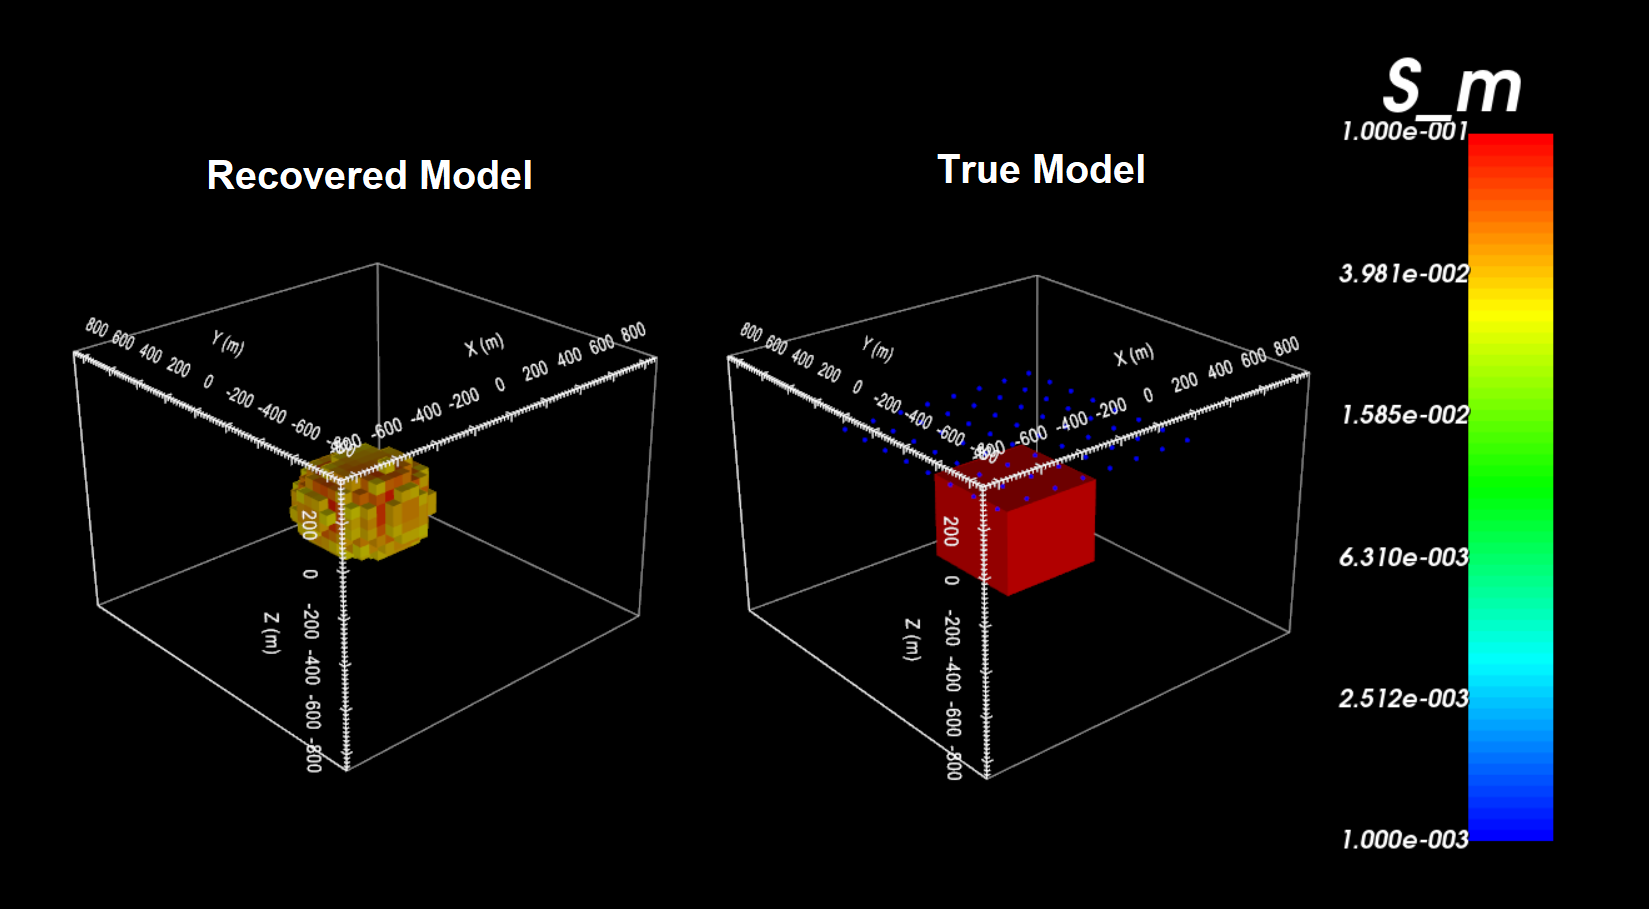
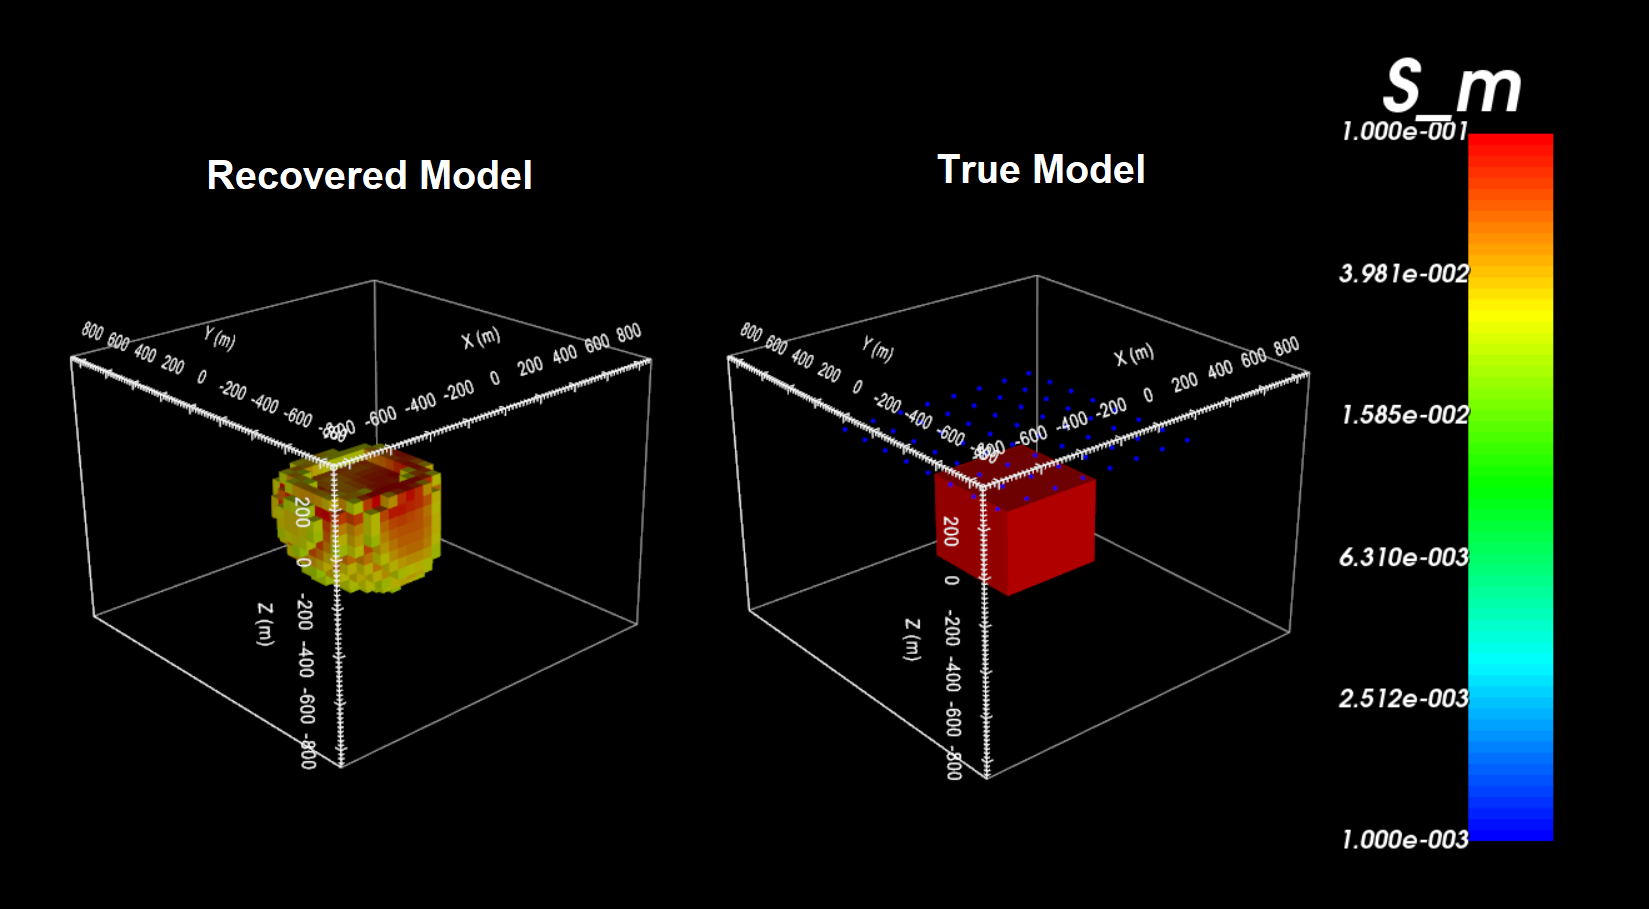
update examples

diff --git a/content/example_dbdt/create_model.rst b/content/example_dbdt/create_model.rst
@@ -5,7 +5,7 @@ Create Model
 
 Here, the code **blk3cell.exe** and the input file **blk3cell.inp** (:ref:`see format <h3dtd_input_model>`) are used to create a conductivity model on the tensor mesh provided. Files relevant to this part of the example are in the sub-folder *tensor_model*. Before running this example, you may want to do the following:
 
-	- `Download and open the zip folder containing the entire H3DTD example <https://github.com/ubcgif/h3dtd/raw/h3dtd_v2/assets/h3dtd_example_dbzdt.zip>`__ (if not done already)
+	- `Download and open the zip folder containing the entire H3DTD v2 example <https://github.com/ubcgif/h3dtd/raw/h3dtd_v2/assets/h3dtd_example_dbzdt.zip>`__ (if not done already)
 	- Learn how to run :ref:`blk3cell<h3dtd_model>` from command line
 	- Learn the format of the input files :ref:`blk3cell.inp<h3dtd_input_model>`
 

diff --git a/content/example_dbdt/inv.rst b/content/example_dbdt/inv.rst
@@ -15,7 +15,7 @@ To invert the synthetic data, the input file below was used:
      :align: center
      :width: 700
 
-The inversion reached the target data misfit on 4th trade-off parameter on the second Gauss-Newton iteration (**inv_04_02.con**). This model (left) and the true model (right) are shown below. A cutoff of 0.025 S/m has been used for both models.
+The inversion reached the target data misfit on 5th trade-off parameter. The final model may slightly overfit the data, therefore we show the recovered model for the 4th trade-off parameter (left) and the true model (right) below. A cutoff of 0.025 S/m has been used for both models.
 
 .. figure:: images/inv.png
      :align: center
